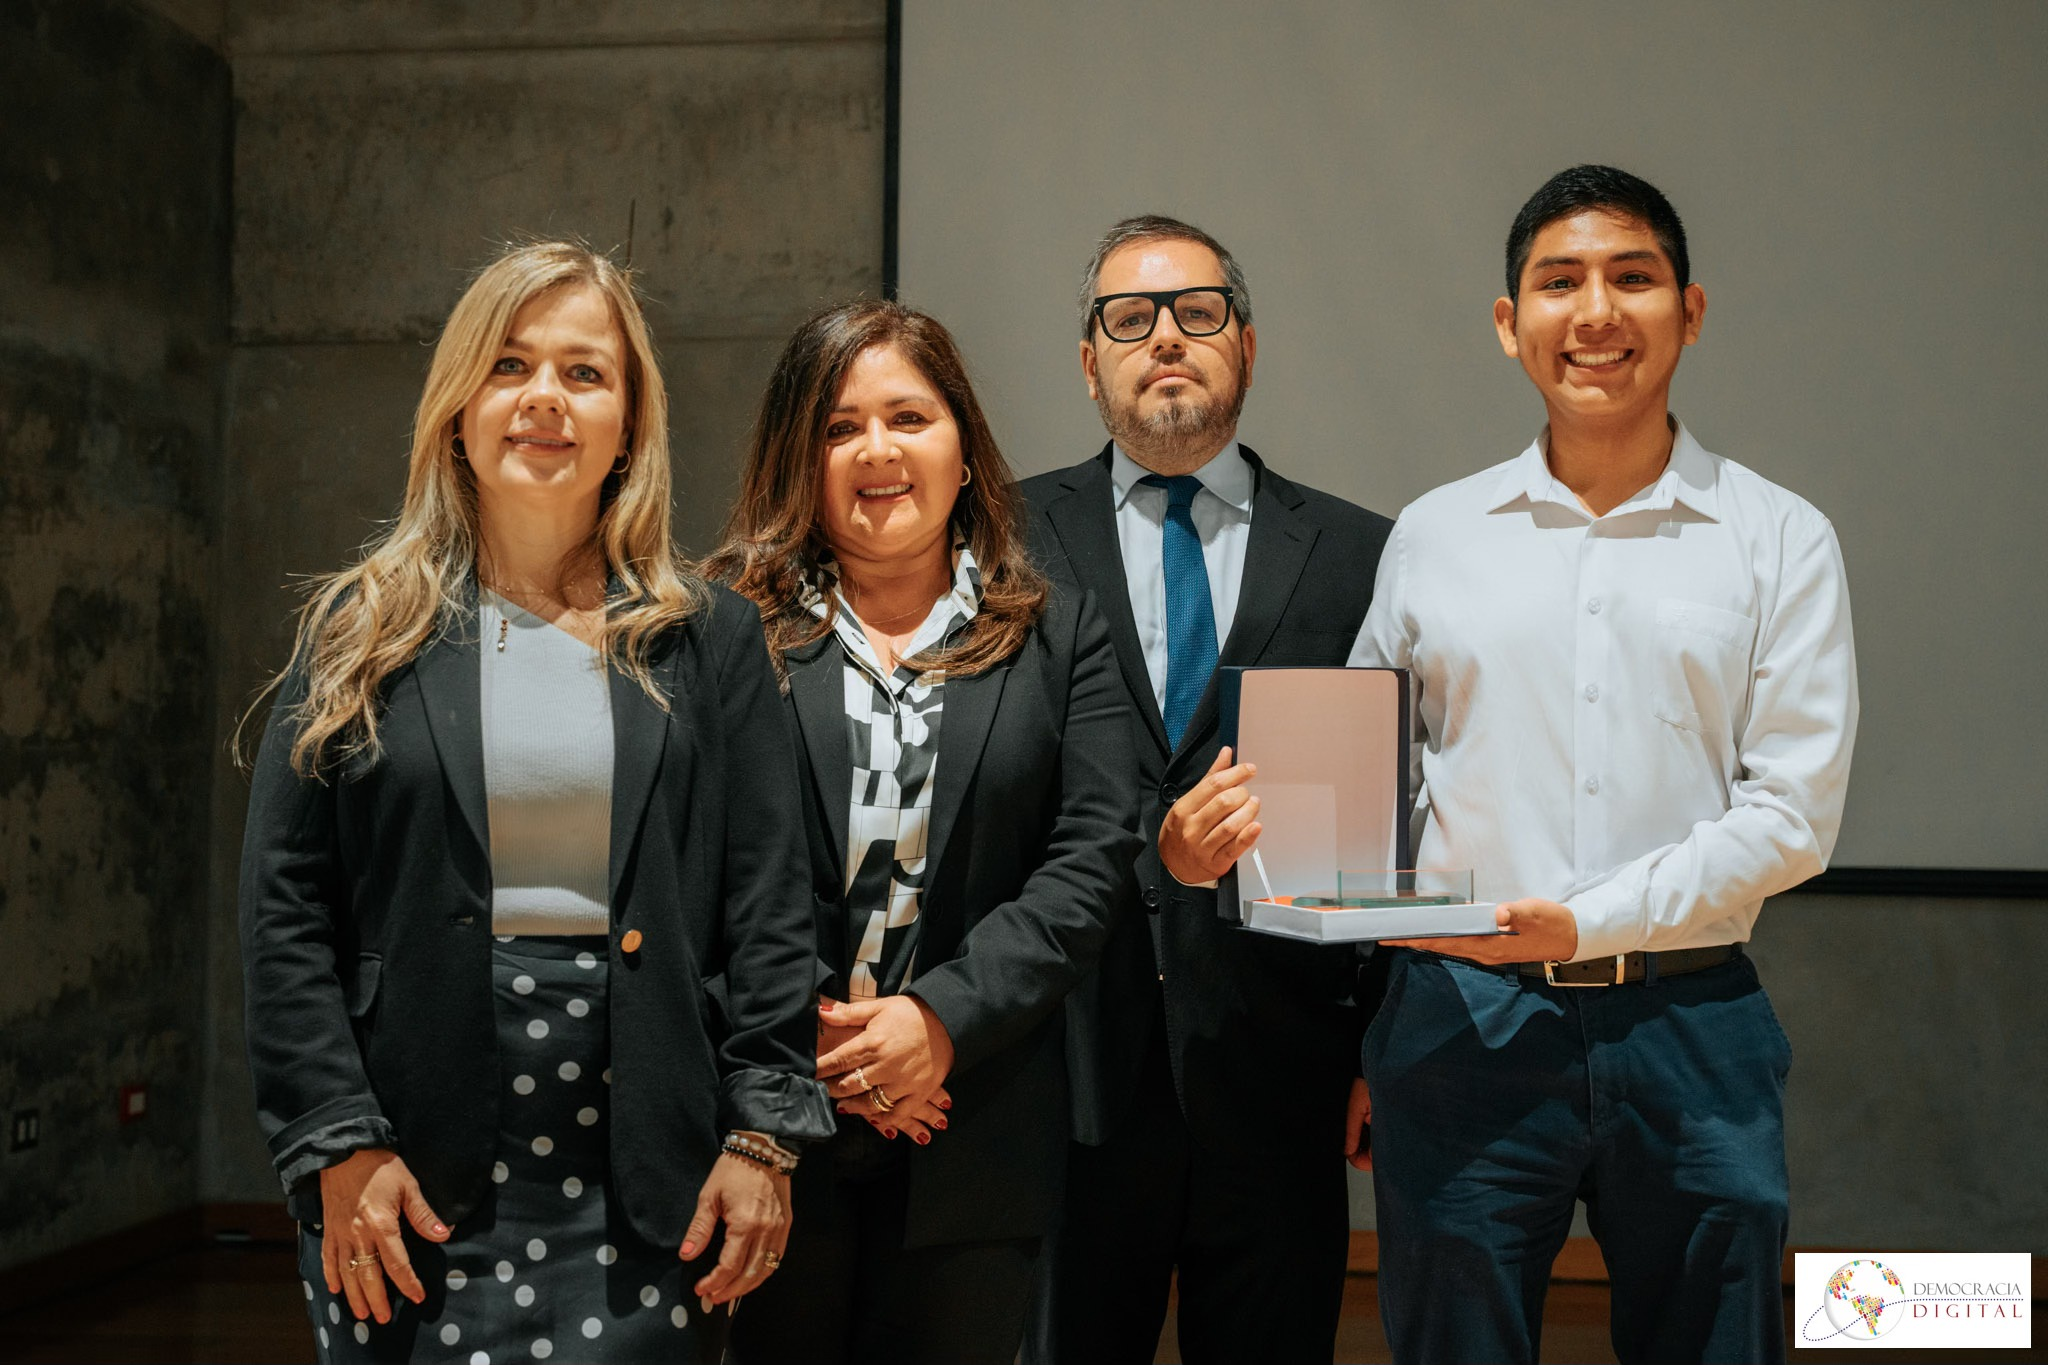
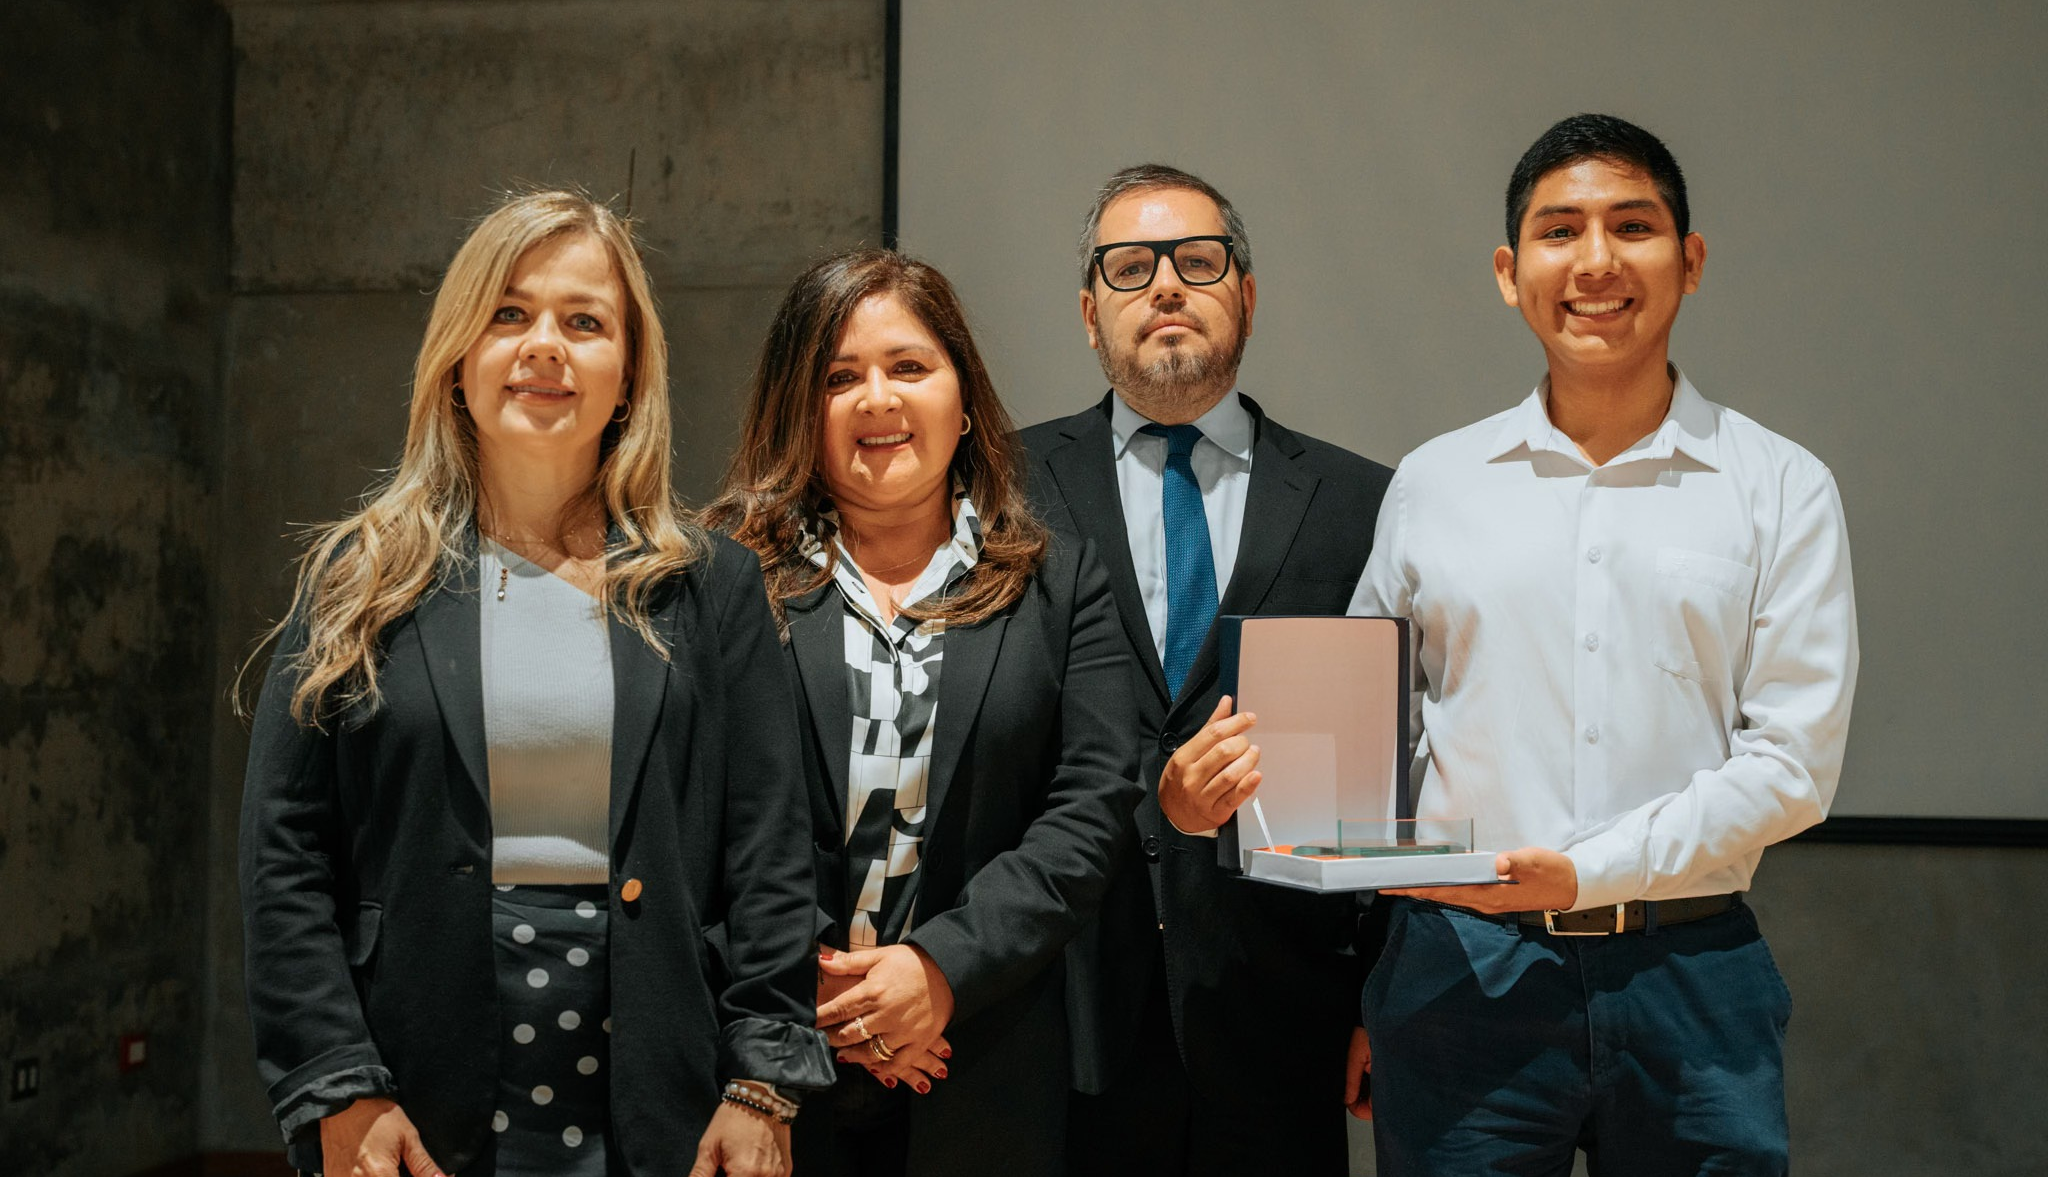
style(ResultsSection): Improved the first image

diff --git a/src/components/Inicio/ResultsSection.tsx b/src/components/Inicio/ResultsSection.tsx
@@ -56,7 +56,7 @@ export default function ResultsSection() {
                 alt={result.title}
                 className={`w-full h-full duration-50 object-center object-cover  ${isAnimating ? "opacity-0" : "opacity-100"}`}
                 style={{
-                  objectPosition: currentIndex === 0 ? "75% center" : "center"
+                  objectPosition: currentIndex === 0 ? "70% center" : "center"
                 }}
               />
             </div>
